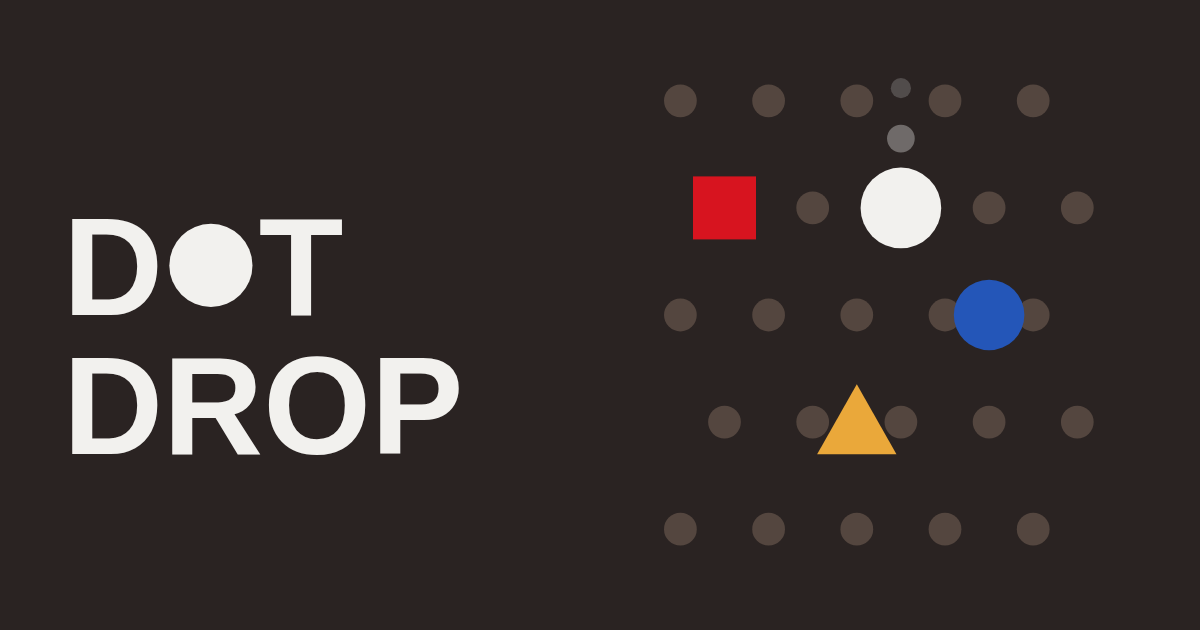
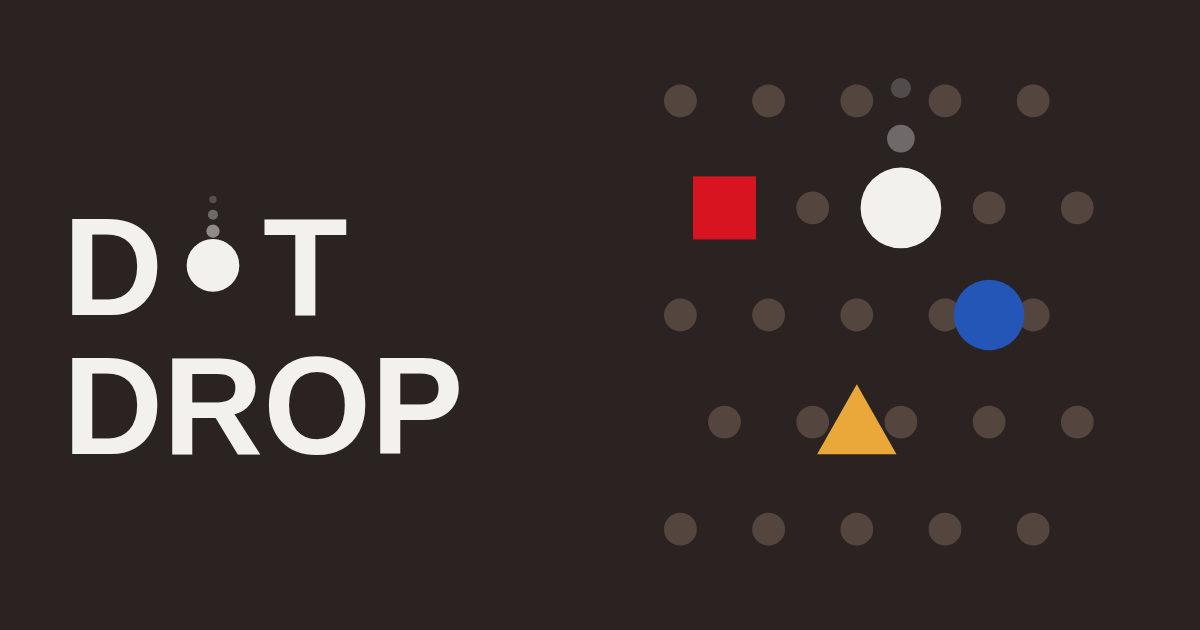
玉を点の大きさまで落とし、アイコンと同じ軌跡をつける
- 玉を .60em → .38em に。文字と同じ大きさだと「円」であって「ドット」に見えなかった
- 落ちている間、玉の上に軌跡（小さくなりながら薄くなる3つの丸）が付く。着地でしぼんで消える
- 玉と軌跡の大きさ・間隔を、アイコン・ogp.png とまったく同じ比率にそろえた
  （玉の直径を1として、軌跡は .25 / .19 / .14、間隔は .65 / .96 / 1.25）
- ogp.png の DOT も同じ形に描き直した

これでアイコン・タイトル・リンクの絵の3つが、同じ「落ちてくる玉」で揃う。

Claude-Session: https://claude.ai/code/session_01X7XEWYvSc89TFVxjzw9szv

Changed region(s): [[0.1233, 0.3317, 0.2775, 0.4825]]

diff --git a/index.html b/index.html
@@ -44,24 +44,34 @@ body.fever #gauge{background:rgba(28,23,22,.18)}
 .overlay{position:fixed;inset:0;display:none;flex-direction:column;align-items:center;justify-content:safe center;overflow-y:auto;-webkit-overflow-scrolling:touch;touch-action:pan-y;background:var(--brown);color:var(--paper);z-index:6;text-align:center;padding:24px}
 .overlay.show{display:flex}
 .overlay h1{font-size:76px;letter-spacing:-.06em;line-height:.9}
-/* DOT の O は玉。名前のとおり、上から落ちてきて弾んで収まる */
-.overlay h1 i{display:inline-block;width:.60em;height:.60em;margin:0 .045em;border-radius:50%;
-background:currentColor;vertical-align:baseline;position:relative;top:-.06em;
+/* DOT の O は玉。画面の外から落ちてきて、つぶれて弾んで収まる。
+   玉と軌跡の大きさ・間隔は、アイコン（icon-*.png）と同じ比率にそろえている */
+.overlay h1 i{display:inline-block;width:.38em;height:.38em;margin:0 .17em;border-radius:50%;
+background:currentColor;vertical-align:baseline;position:relative;top:-.17em;
 transform-origin:50% 100%;animation:dropIn 1.05s both}
+/* 落ちている間だけ出る軌跡。着地でしぼんで消える */
+.overlay h1 i b{position:absolute;left:50%;border-radius:50%;background:currentColor;
+transform:translateX(-50%);animation:trail 1.05s both}
+.overlay h1 i b:nth-child(1){width:.095em;height:.095em;bottom:.39em;opacity:.5}
+.overlay h1 i b:nth-child(2){width:.072em;height:.072em;bottom:.52em;opacity:.34}
+.overlay h1 i b:nth-child(3){width:.053em;height:.053em;bottom:.64em;opacity:.22}
+@keyframes trail{
+  0%,27%{transform:translateX(-50%) scale(1)}
+  36%,100%{transform:translateX(-50%) scale(0)}}
 /* 落ちるところは加速、跳ねるところは減速。着地のたびに少しつぶれる */
 @keyframes dropIn{
-  0%  {transform:translateY(-3.6em);animation-timing-function:cubic-bezier(.45,0,.9,.4)}
+  0%  {transform:translateY(-4.4em);animation-timing-function:cubic-bezier(.45,0,.9,.4)}
   30% {transform:translateY(0) scale(1,1)}
-  34% {transform:translateY(0) scale(1.20,.76)}
-  38% {transform:translateY(0) scale(.94,1.10);animation-timing-function:cubic-bezier(.15,.7,.4,1)}
-  55% {transform:translateY(-.55em) scale(1,1);animation-timing-function:cubic-bezier(.45,0,.9,.4)}
-  68% {transform:translateY(0) scale(1.14,.84)}
-  71% {transform:translateY(0) scale(.97,1.06);animation-timing-function:cubic-bezier(.15,.7,.4,1)}
-  82% {transform:translateY(-.20em) scale(1,1);animation-timing-function:cubic-bezier(.45,0,.9,.4)}
-  91% {transform:translateY(0) scale(1.07,.93)}
+  34% {transform:translateY(0) scale(1.24,.72)}
+  38% {transform:translateY(0) scale(.93,1.12);animation-timing-function:cubic-bezier(.15,.7,.4,1)}
+  55% {transform:translateY(-.85em) scale(1,1);animation-timing-function:cubic-bezier(.45,0,.9,.4)}
+  68% {transform:translateY(0) scale(1.16,.82)}
+  71% {transform:translateY(0) scale(.96,1.07);animation-timing-function:cubic-bezier(.15,.7,.4,1)}
+  82% {transform:translateY(-.3em) scale(1,1);animation-timing-function:cubic-bezier(.45,0,.9,.4)}
+  91% {transform:translateY(0) scale(1.08,.92)}
   96% {transform:translateY(0) scale(.99,1.02)}
   100%{transform:translateY(0) scale(1,1)}}
-@media (prefers-reduced-motion:reduce){.overlay h1 i{animation:none}}
+@media (prefers-reduced-motion:reduce){.overlay h1 i{animation:none}.overlay h1 i b{display:none}}
 .overlay p{margin-top:14px;font-size:15px;opacity:.75;line-height:1.7}
 .overlay button{margin-top:28px;font:inherit;font-weight:700;font-size:18px;color:var(--paper);background:var(--red);border:none;border-radius:999px;padding:16px 40px;cursor:pointer}
 .overlay button:focus-visible{outline:3px solid var(--paper);outline-offset:3px}
@@ -167,7 +177,7 @@ body.tutorial .stage-hud{display:none}
   <div class="stat right"><b id="points" class="roll"></b><small id="pointsLabel">スコア</small><div id="gauge"><i></i></div><div id="best"></div></div>
 </header>
 <div id="start" class="overlay show">
-  <h1>D<i></i>T<br>DROP</h1>
+  <h1>D<i><b></b><b></b><b></b></i>T<br>DROP</h1>
   <div class="shapes" aria-hidden="true">
     <i style="background:#D7141F"></i>
     <i style="background:#2456B8;border-radius:50%"></i>

diff --git a/CLAUDE.md b/CLAUDE.md
@@ -57,8 +57,11 @@
 - 名前は **DOT の O を玉（白い真円）に置き換える**。タイトルを開くと、その玉が画面の外から落ちてきて、
   つぶれて3回弾んで収まる（落ちるところは加速、跳ねるところは減速。着地のたびに少しつぶす）
   - 太いグロテスク体はそのまま。白＝玉だけ、という色のルールに合う
-  - 玉の大きさは .60em、左右の空きは .045em。文字と同じ大きさ（.70em）にして空きを広くとると、
-    玉が浮いて見えて「ドットらしくない」と言われた。文字にきちんと収まる大きさにする
+  - 玉の大きさは .38em、左右の空きは .17em。文字と同じ大きさにすると「円」であって「ドット」に見えない。
+    小さくして、はっきり点に見えるところまで落とす
+  - 落ちている間は玉の上に軌跡（小さくなりながら薄くなる3つの丸）が付く。着地でしぼんで消える
+  - **玉と軌跡の大きさ・間隔は、アイコンと ogp.png とまったく同じ比率**にそろえている
+    （玉の直径を1として、軌跡は .25 / .19 / .14、間隔は .65 / .96 / 1.25）
   - DROP の O はふつうのまま。2つとも玉にすると読みにくくなる
   - リンクを送ったときの絵（ogp.png）も同じ扱いにしている
 - 「はじめる」（赤い丸いボタン）と「あそびかた」（枠だけの四角いボタン、中に進み具合の8つの丸）の2つだけ
